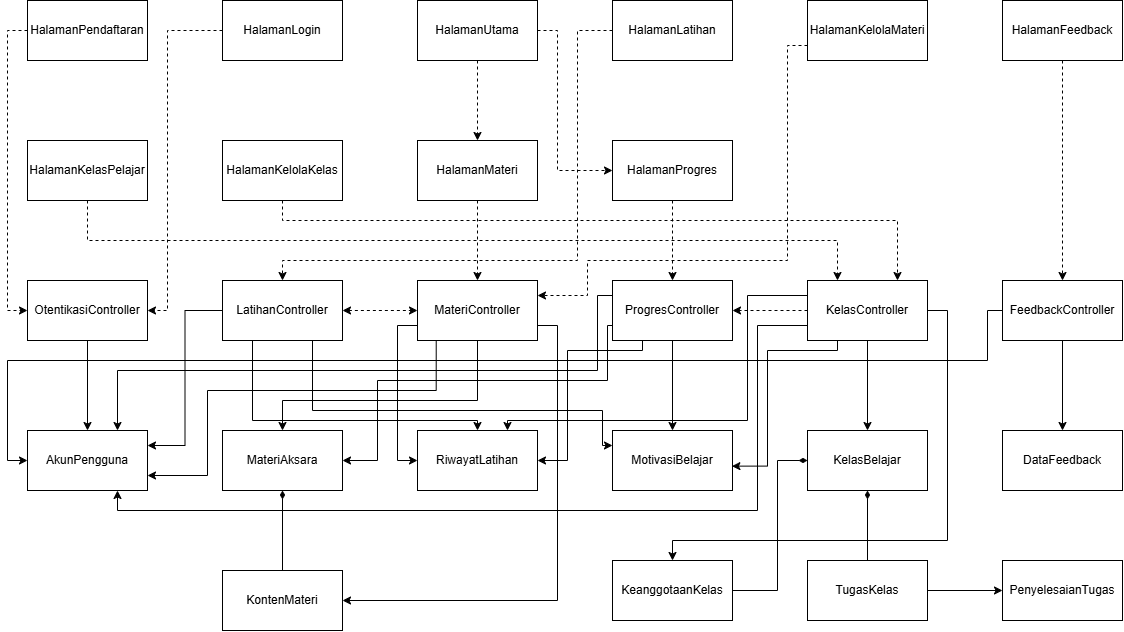
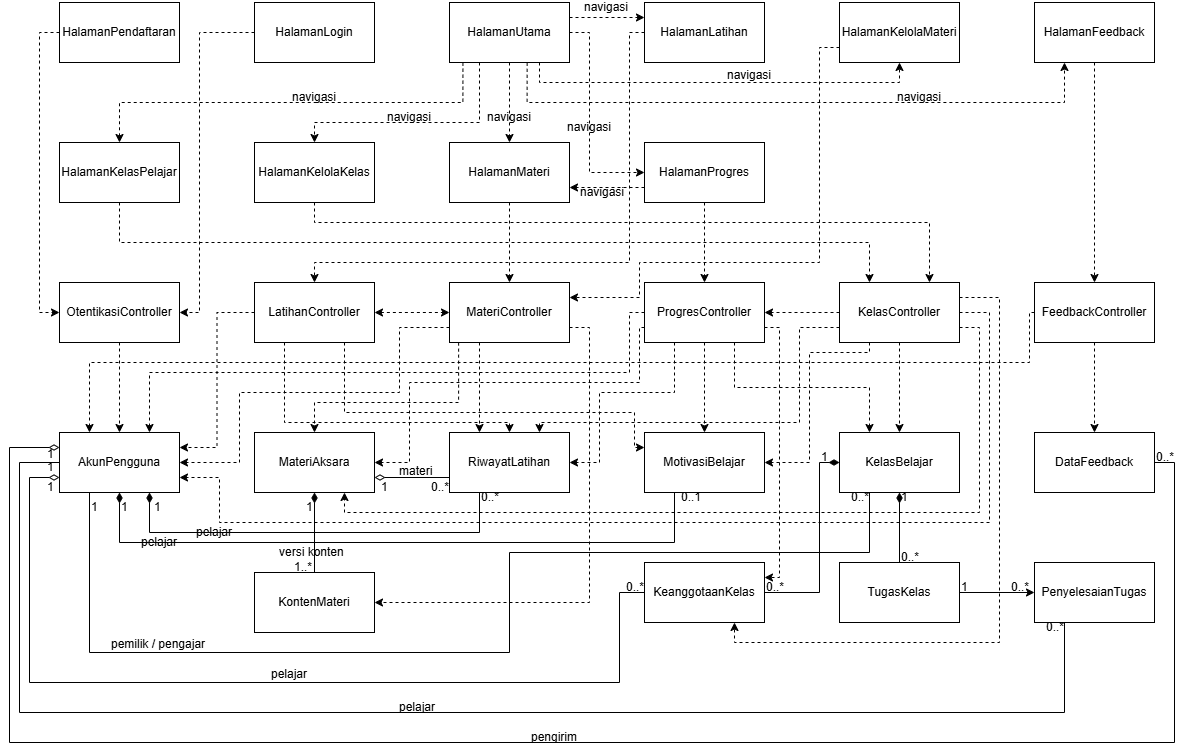
docs : menambah diagram kelas keseluruhan

diff --git a/docs/M7/K02_G04_DPPL.md b/docs/M7/K02_G04_DPPL.md
@@ -651,23 +651,43 @@ Tabel 3.9.1 Identifikasi Kelas Use Case UC-09
 
 ## 4.1 Diagram Kelas
 
-**Bagian ini diisi dengan diagram kelas keseluruhan.**
-
 <p align="center">
-<img alt="Contoh Logical View pada P/L E-Commerce" src="./assets/diagram/contoh-class_diargam.png" width="35%">
+<img alt="Diagram Kelas Keseluruhan" src="./assets/diagram/ClassDiagram_Keseluruhan.png" width="100%">
 </p>
 <p align="center">
-<i>Gambar 4.1. Diagram Kelas Perancangan Keseluruhan [Nama P/L]</i>
+<i>Gambar 4.1. Diagram Kelas Perancangan Keseluruhan Ngaksara</i>
 </p>
 
 Tabel 4.1. Daftar Kelas Perancangan Keseluruhan
 
 | ID Kelas | Nama Kelas | Atribut | Metode/Operasi |
 | :--- | :--- | :--- | :--- |
-| *[C01]* | *[Nama kelas]* | *[Daftar atribut]* | *[Daftar metode/operasi]* |
-| *[C02]* | *[Nama kelas]* | *[Daftar atribut]* | *[Daftar metode/operasi]* |
-| *[C03]* | *[Nama kelas]* | *[Daftar atribut]* | *[Daftar metode/operasi]* |
-| *...* | *...* | *...* | *...* |
+| C01 | AkunPengguna | `- idAkun: Integer`<br>`- email: String`<br>`- username: String`<br>`- passwordHash: String`<br>`- peran: String`<br>`- namaTampilan: String` | `+ buatAkunBaru(data: DataPendaftaran): HasilOperasi`<br>`+ getProfil(): Data`<br>`+ verifikasiHakAkses(aksi: String): Boolean`<br>`+ getDetailAkun(): Data` |
+| C02 | MateriAksara | `- idMateri: Integer`<br>`- namaMateri: String`<br>`- jenisAksara: JenisAksara`<br>`- tingkatKesulitan: Integer`<br>`- statusPublikasi: StatusPublikasi` | `+ ambilMetadata(): MetadataMateri`<br>`+ ambilTargetLatihan(mode: ModeLatihan): TargetLatihan`<br>`+ perbaruiData(data: MetadataMateri): HasilOperasi`<br>`+ simpan(data: MetadataMateri): HasilOperasi`<br>`+ ambilDaftarMateri(filter: FilterMateri): List<MateriAksara>`<br>`+ ambilMateriRekomendasi(penguasaan: Data): List<MateriAksara>` |
+| C03 | RiwayatLatihan | `- idRiwayat: Integer`<br>`- idPelajar: Integer`<br>`- idMateri: Integer`<br>`- mode: ModeLatihan?`<br>`- skor: Decimal?`<br>`- tanggalPengerjaan: DateTime`<br>`- status: String`<br>`- idTugas: Integer?`<br>`- idKomponen: Integer?`<br>`- modeAktivitas: String`<br>`- waktuSelesai: DateTime?` | `+ simpanHasil(hasil: HasilLatihan): HasilOperasi`<br>`+ catatAktivitas(aktivitas: AktivitasBelajar): HasilOperasi`<br>`+ ambilRiwayat(idPelajar: Integer, periode: Periode): List<RiwayatLatihan>`<br>`+ ambilBuktiPenyelesaian(idPelajar: Integer, idTugas: Integer): BuktiPenyelesaian`<br>`+ ambilStatusProgres(idPelajar: Integer): Data`<br>`+ hitungPenguasaan(idPelajar: Integer): Data`<br>`+ ambilRiwayatPelajar(idPelajar: Integer): List<RiwayatLatihan>`<br>`+ hitungPolaKesalahan(idPelajar: Integer): Data` |
+| C04 | DataFeedback | `- idFeedback: Integer`<br>`- idAkun: Integer`<br>`- kategori: KategoriFeedback`<br>`- pesan: String`<br>`- waktuKirim: DateTime`<br>`- status: StatusFeedback` | `+ simpan(data: MasukanFeedback): HasilOperasi`<br>`+ perbaruiStatus(status: StatusFeedback): HasilOperasi` |
+| C05 | HalamanPendaftaran | `- formInputData: DataPendaftaran`<br>`- statusPersetujuan: Boolean` | `+ tampilkanTnC(): void`<br>`+ kirimPendaftaran(data: DataPendaftaran): void`<br>`+ tampilkanOpsiPeran(): void` |
+| C06 | HalamanLogin | `- emailInput: String`<br>`- statusTampilan: String` | `+ kirimKredensial(email: String, password: String): void`<br>`+ tampilkanStatusLogin(hasil: HasilOperasi): void` |
+| C07 | HalamanUtama | `- profil: Profil`<br>`- menuTersedia: List<String>` | `+ tampilkanMenu(peran: Peran): void`<br>`+ pilihMenu(kode: String): void` |
+| C08 | HalamanLatihan | `- modeLatihan: ModeLatihan`<br>`- jawabanInput: JawabanLatihan`<br>`- goresan: List<Goresan>`<br>`- hasilTampilan: HasilPenilaian?` | `+ pilihModeLatihan(mode: ModeLatihan): void`<br>`+ rekamGoresan(titik: Titik): void`<br>`+ kirimJawaban(jawaban: JawabanLatihan): void`<br>`+ tampilkanHasil(hasil: HasilPenilaian): void` |
+| C09 | HalamanKelolaMateri | `- daftarMateri: List<MetadataMateri>`<br>`- detailInput: DataKonten`<br>`- fileMateriInput: Berkas?` | `+ unggahFileMateri(berkas: Berkas, detail: DataKonten): void`<br>`+ suntingMateri(idMateri: Integer): void`<br>`+ tampilkanStatus(hasil: HasilOperasi): void`<br>`+ tampilkanDaftarMateri(data: List<MateriAksara>): void` |
+| C10 | HalamanFeedback | `- kategoriFeedback: KategoriFeedback`<br>`- pesanFeedback: String`<br>`- statusKirim: StatusKirim` | `+ kirimFeedback(data: MasukanFeedback): void`<br>`+ tampilkanKonfirmasi(hasil: HasilOperasi): void`<br>`+ tampilkanFormFeedback(): void` |
+| C11 | HalamanKelasPelajar | `- kodeKelasInput: String`<br>`- tugasAktif: Integer?`<br>`- detailTugas: DetailTugas?`<br>`- idKelasAktif: Integer` | `+ kirimKodeBergabung(kode: String): void`<br>`+ bukaTugas(idKelas: Integer, idTugas: Integer): void`<br>`+ kerjakanTugas(idKelas: Integer, idTugas: Integer): void`<br>`- finalisasiTugas(idKelas: Integer, idTugas: Integer): HasilOperasi`<br>`+ bukaKelas(idKelas: Integer): void`<br>`- tampilkanPesan(pesan: String): void`<br>`- tampilkanTugas(data: Data): void`<br>`- tampilkanDetail(data: Data): void`<br>`- tampilkanHasil(data: Data): void`<br>`+ periksaPenyelesaian(idKelas: Integer, idTugas: Integer): void` |
+| C12 | HalamanKelolaKelas | `- idKelasTerpilih: Integer?`<br>`- daftarAnggota: List<Profil>`<br>`- ringkasanProgres: RingkasanProgres?`<br>`- pesanInput: String` | `+ buatKelas(data: DataKelas): void`<br>`+ buatTugas(data: DataTugas): void`<br>`+ pilihAnggota(idPelajar: Integer): void`<br>`+ kirimUmpanBalik(data: DataUmpanBalik): void`<br>`+ kelolaAnggota(idKelas: Integer): void`<br>`+ aturScoreboard(idKelas: Integer, aktif: Boolean): void`<br>`+ tampilkanAnggota(data: List<Profil>): void`<br>`+ tampilkanProgres(data: RingkasanProgres): void` |
+| C13 | HalamanMateri | `- materiTerpilih: Integer?`<br>`- statusTampilan: String`<br>`- statusAudio: String` | `+ pilihMateri(idMateri: Integer): void`<br>`+ tampilkanIsiMateri(paket: PaketMateri): void`<br>`+ putarAudioPengucapan(sumber: ReferensiBerkas): void` |
+| C14 | HalamanProgres | `- filterPeriode: Periode`<br>`- dataTampilan: RingkasanProgres?`<br>`- idKelasTerpilih: Integer?` | `+ tampilkanProgres(data: RingkasanProgres): void`<br>`+ pilihPeriode(periode: Periode): void`<br>`+ tampilkanScoreboard(data: List<Peringkat>): void` |
+| C15 | OtentikasiController | `- konteks: KonteksPermintaan` | `+ verifikasiFormatData(data: DataPendaftaran): HasilValidasi`<br>`- hashPassword(password: String): String`<br>`+ simpanAkun(data: DataPendaftaran): HasilOperasi`<br>`+ validasiLogin(email: String, password: String): HasilOperasi` |
+| C16 | LatihanController | `- konteks: KonteksPermintaan` | `+ siapkanSoal(idMateri: Integer, mode: ModeLatihan): SoalLatihan`<br>`+ nilaiJawaban(jawaban: JawabanLatihan): HasilPenilaian`<br>`+ simpanHasil(hasil: HasilLatihan): HasilOperasi` |
+| C17 | MateriController | `- konteks: KonteksPermintaan` | `+ ambilDaftarMateri(filter: FilterMateri): List<MetadataMateri>`<br>`+ muatPaketMateri(idMateri: Integer, versiAplikasi: String): PaketMateri`<br>`+ ambilAudioPengucapan(idMateri: Integer): HasilBerkas`<br>`+ ambilKontenLatihan(idMateri: Integer, mode: ModeLatihan): TargetLatihan`<br>`+ tambahMateri(data: DataKonten, berkas: Berkas): HasilOperasi`<br>`+ perbaruiMateri(idMateri: Integer, data: DataKonten): HasilOperasi`<br>`+ validasiFormatFile(berkas: Berkas): HasilValidasi`<br>`+ hapusMateri(idMateri: Integer): HasilOperasi` |
+| C18 | FeedbackController | `- konteks: KonteksPermintaan` | `+ validasiFeedback(data: MasukanFeedback): HasilValidasi`<br>`+ simpanFeedback(data: MasukanFeedback): HasilOperasi`<br>`+ kirimKonfirmasi(hasil: HasilOperasi): Konfirmasi` |
+| C19 | ProgresController | `- konteks: KonteksPermintaan` | `+ ambilRiwayat(idPelajar: Integer, periode: Periode): List<RiwayatLatihan>`<br>`+ hitungProgres(idPelajar: Integer): RingkasanProgres`<br>`+ siapkanRekomendasi(idPelajar: Integer): List<MetadataMateri>`<br>`+ ambilScoreboard(idKelas: Integer): HasilScoreboard`<br>`+ agregasiProgres(anggotaAktif: List<Integer>, periode: Periode): RingkasanProgres`<br>`+ hitungPolaKesalahan(idPelajar: Integer): Data` |
+| C20 | KelasController | `- konteks: KonteksPermintaan`<br>`- idPelajar: Integer`<br>`- idKelas: Integer` | `+ validasiKodeBergabung(kode: String): HasilOperasi`<br>`+ ambilTugasAktif(idKelas: Integer): HasilOperasi`<br>`+ simpanPengumpulan(idKelas: Integer, idTugas: Integer): HasilOperasi`<br>`+ buatKelas(data: DataKelas): HasilOperasi`<br>`+ terbitkanTugas(idKelas: Integer, data: DataTugas): HasilOperasi`<br>`+ ambilDaftarAnggota(idKelas: Integer): List<Profil>`<br>`+ kirimUmpanBalik(idKelas: Integer, data: DataUmpanBalik): HasilOperasi`<br>`+ bukaTugas(idKelas: Integer, idTugas: Integer): HasilOperasi`<br>`+ hasilkanKodeUnik(): String`<br>`+ gabungkanPelajar(idKelas: Integer): HasilOperasi`<br>`+ kelolaAnggota(idKelas: Integer, idPelajar: Integer, status: String): HasilOperasi`<br>`+ ambilKelasPengajar(): List<KelasBelajar>`<br>`+ gantiKodeKelas(idKelas: Integer): HasilOperasi`<br>`+ aturScoreboard(idKelas: Integer, aktif: Boolean): HasilOperasi`<br>`+ ambilProgresAnggota(idKelas: Integer, idPelajar: Integer): Data` |
+| C21 | KontenMateri | `- idKonten: Integer`<br>`- idMateri: Integer`<br>`- bentukAksara: String`<br>`- aturan: String`<br>`- contoh: String`<br>`- pathAudio: String?`<br>`- versiKonten: String`<br>`- versiAplikasiMinimum: String` | `+ ambilKonten(versiAplikasi: String): PaketMateri`<br>`+ ambilAudio(): HasilBerkas`<br>`+ perbaruiKonten(data: DataKonten): HasilOperasi`<br>`+ arsipkanVersi(): HasilOperasi`<br>`+ simpanKonten(data: DataKonten): HasilOperasi` |
+| C22 | MotivasiBelajar | `- idPelajar: Integer`<br>`- streak: Integer`<br>`- poin: Integer`<br>`- tanggalAktifTerakhir: Date?`<br>`- daftarBadge: List<String>` | `+ perbaruiStreak(tanggal: Date): void`<br>`+ tambahPoin(idAktivitas: Integer, nilai: Integer): HasilOperasi`<br>`+ berikanBadge(kode: String): HasilOperasi`<br>`+ susunScoreboard(anggotaAktif: List<Profil>): List<Peringkat>`<br>`+ ambilMotivasi(idPelajar: Integer): Data`<br>`+ ambilPoinKelas(anggotaAktif: List<Integer>): List<Peringkat>` |
+| C23 | KelasBelajar | `- idKelas: Integer`<br>`- nama: String`<br>`- pemilikId: Integer`<br>`- kodeBergabung: String`<br>`- status: String`<br>`- statusScoreboard: Boolean` | `+ validasiKode(kode: String): KelasBelajar?`<br>`+ gabungkanPelajar(idPelajar: Integer): HasilOperasi`<br>`+ gantiKodeBergabung(idPengajar: Integer): HasilOperasi`<br>`+ finalisasiTugas(idPelajar: Integer, idTugas: Integer, bukti: BuktiPenyelesaian): HasilOperasi`<br>`+ periksaPemilik(idPengajar: Integer): Boolean`<br>`+ ambilDaftarTugas(idPelajar: Integer): HasilOperasi`<br>`+ bukaTugas(idPelajar: Integer, idTugas: Integer): HasilOperasi`<br>`+ simpan(data: DataKelas): HasilOperasi`<br>`+ buatKodeBergabung(): String`<br>`+ daftarKelasPengajar(idPengajar: Integer): List<KelasBelajar>`<br>`+ aturScoreboard(aktif: Boolean): HasilOperasi` |
+| C24 | KeanggotaanKelas | `- idKeanggotaan: Integer`<br>`- idKelas: Integer`<br>`- idPelajar: Integer`<br>`- status: String` | `+ simpanKeanggotaan(idPelajar: Integer, idKelas: Integer): HasilOperasi`<br>`+ periksaAkses(idPelajar: Integer, idKelas: Integer): Boolean`<br>`+ daftarAnggotaAktif(idKelas: Integer): List<KeanggotaanKelas>`<br>`+ ubahStatus(status: String): HasilOperasi`<br>`- simpanAtomik(): HasilOperasi`<br>`+ daftarAnggota(idKelas: Integer): List<KeanggotaanKelas>` |
+| C25 | TugasKelas | `- idTugas: Integer`<br>`- idKelas: Integer`<br>`- instruksi: String`<br>`- tenggat: DateTime`<br>`- status: StatusTugas`<br>`- komponenTugas: List<KomponenTugas>` | `+ ambilTugasAktif(idKelas: Integer): List`<br>`+ terbitkan(): HasilOperasi`<br>`+ verifikasiDanSimpan(idKelas: Integer, idTugas: Integer, idPelajar: Integer, bukti: BuktiPenyelesaian): HasilOperasi`<br>`+ ambilStatus(idPelajar: Integer, daftarTugas: List): List`<br>`+ ambilDetail(idKelas: Integer, idTugas: Integer): Data?`<br>`- periksaKomponenWajib(bukti: BuktiPenyelesaian): HasilVerifikasi`<br>`+ simpan(data: DataTugas): HasilOperasi` |
+| C26 | PenyelesaianTugas | `- idPenyelesaian: Integer`<br>`- idTugas: Integer`<br>`- idPelajar: Integer`<br>`- waktuKumpul: DateTime`<br>`- status: String` | `+ simpanPengumpulan(idPelajar: Integer, idTugas: Integer, waktuSelesai: DateTime, tenggat: DateTime): HasilOperasi`<br>`- tentukanStatusKetepatan(waktuSelesai: DateTime, tenggat: DateTime): String`<br>`+ ambilStatus(idPelajar: Integer, daftarTugas: List): List`<br>`- simpanAtomik(): HasilOperasi`<br>`- batalkanTransaksi(): void` |
 
 <br>
 
